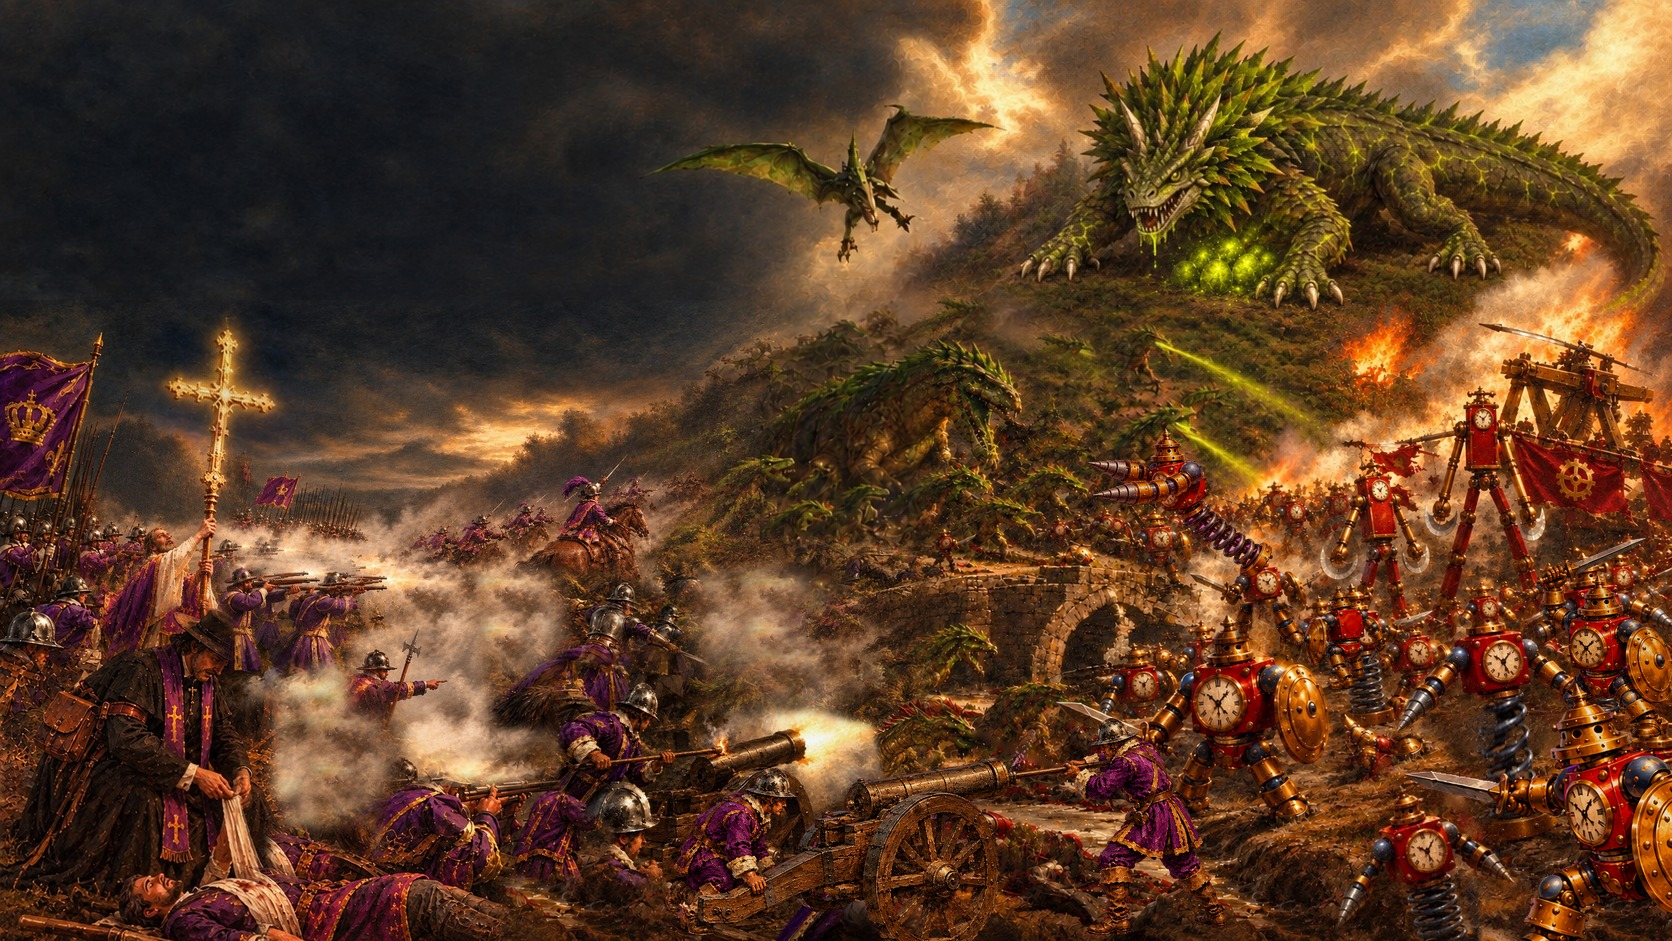
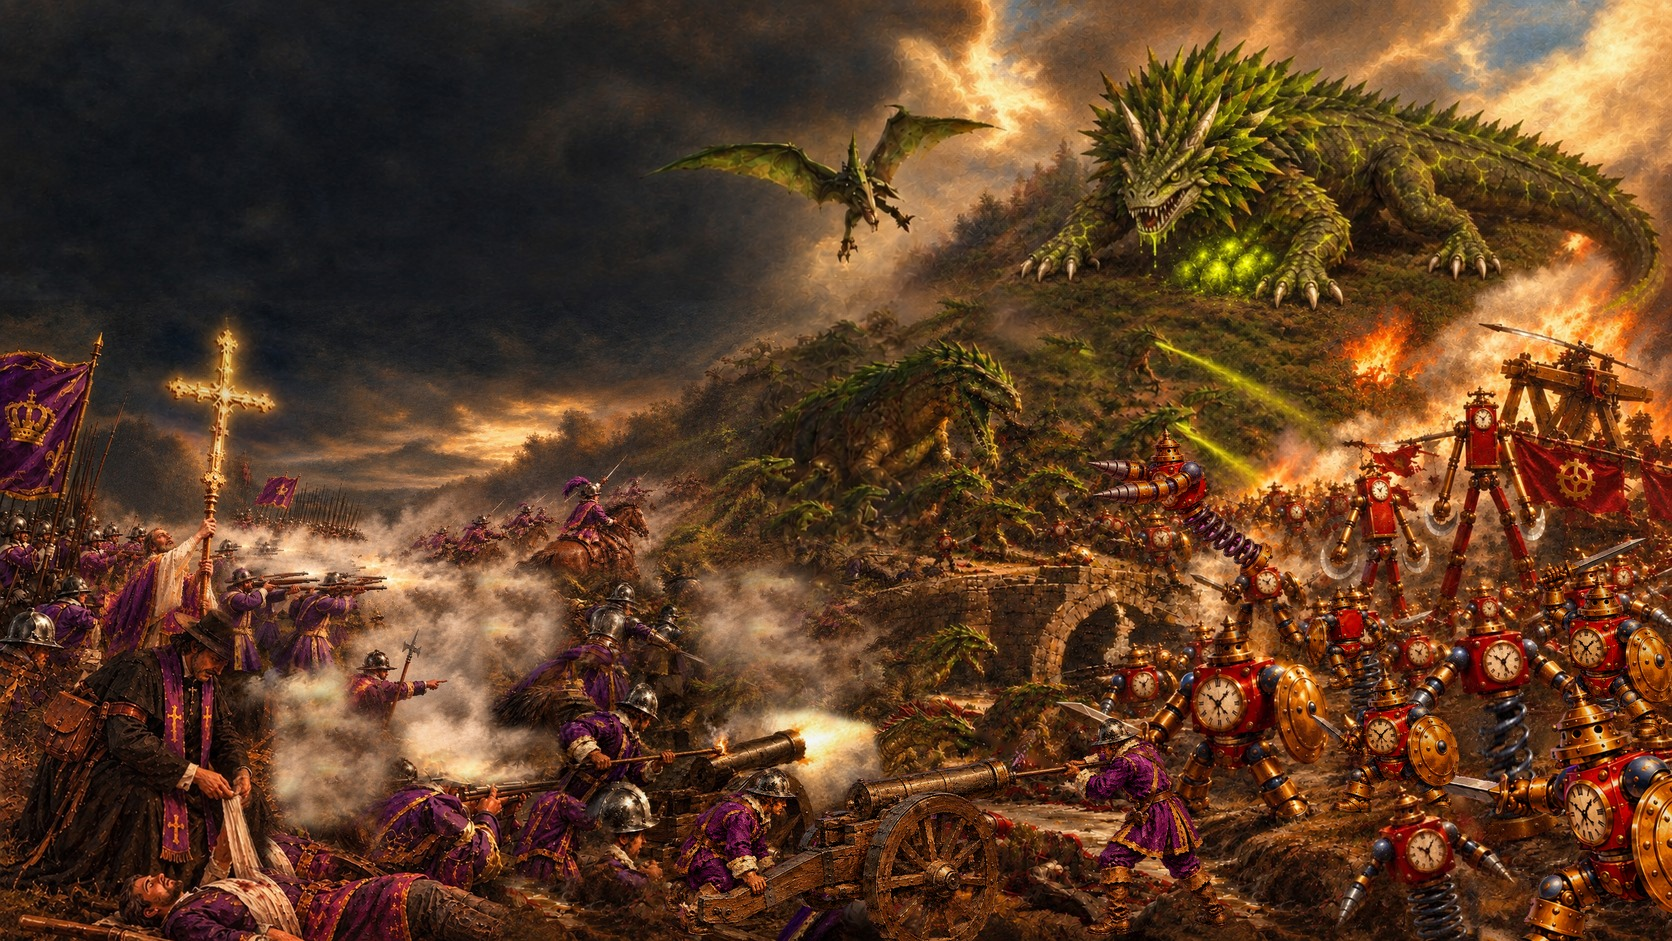
menu painting: a Clock Soldier with its shield up in the empty patch of the Clockwork front
Claude-Session: https://claude.ai/code/session_01NtmEZhP1uA8k4DLQ7BYfMz

Changed region(s): [[0.7775, 0.7088, 0.8708, 0.8629]]

diff --git a/art/figures/README.md b/art/figures/README.md
@@ -34,7 +34,7 @@ Sources: src_clockwork_soldiers_chatgpt.png, src_clockwork_springers_chatgpt.png
 
 | file | what |
 |---|---|
-| clockwork_cs_guard_left.png | Clock Soldier, three-quarter left, shield up, sword back |
+| clockwork_cs_guard_left.png | Clock Soldier, three-quarter left, shield up, sword back (in the menu painting, the gap in the front) |
 | clockwork_cs_lunge_left.png | Clock Soldier lunging left, sword thrust forward (in the menu painting, front right) |
 | clockwork_cs_swing_left.png | Clock Soldier, sword raised over its head (in the menu painting, top right) |
 | clockwork_cs_back_left.png | Clock Soldier from behind, walking left (in the menu painting, in the crowd) |

diff --git a/README.md b/README.md
@@ -2,7 +2,7 @@
 
 *(a working title: the game was called Holdfast until October 2026, but that name belongs to another game; the web address, the app file and the repository keep the old name for now so links and installs keep working)*
 
-**Play in your browser (version 0.35.1): https://holdfastrts.github.io/Holdfast/**
+**Play in your browser (version 0.35.2): https://holdfastrts.github.io/Holdfast/**
 
 **Windows program: https://holdfastrts.github.io/Holdfast/Holdfast_windows.zip** (rebuilt on every push; unzip it and run Holdfast.exe; if Windows warns "Windows protected your PC", click More info, then Run anyway)
 
